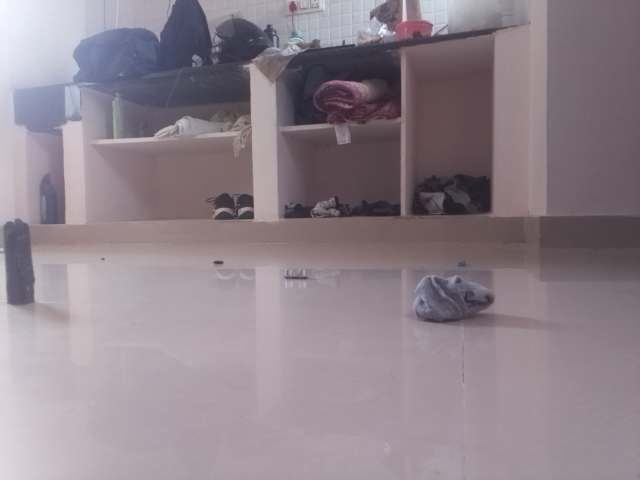
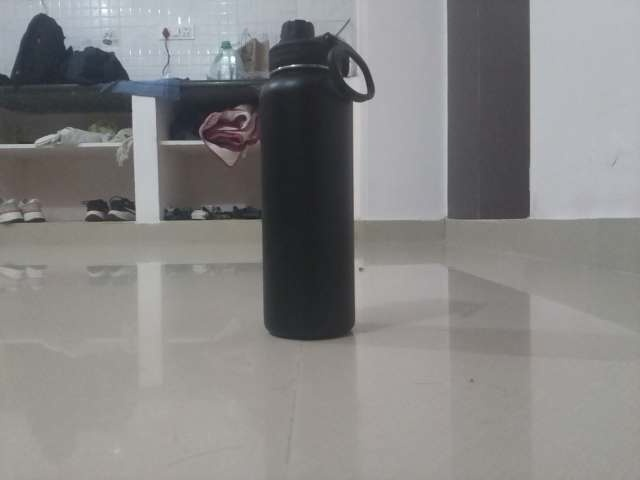
Images Added

diff --git a/camera_calibration.py b/camera_calibration.py
@@ -2,22 +2,22 @@ import cv2
 import numpy as np
 
 #Step - 1
-# cap = cv2.VideoCapture(0)
-# cap.set(cv2.CAP_PROP_FRAME_WIDTH, 640)
-# cap.set(cv2.CAP_PROP_FRAME_HEIGHT, 480)
-# cap.set(cv2.CAP_PROP_FOURCC, cv2.VideoWriter_fourcc('M', 'J', 'P', 'G'))
-# if cap.isOpened():
-#     ret, frame = cap.read() 
-#     if ret:
-#         filename = f"calibration_image.jpg"
-#         frame = cv2.rotate(frame, cv2.ROTATE_180)  
-#         cv2.imwrite(filename, frame)
-#         print(f"✅ Success on /dev/video — saved as {filename}")
-#     else:
-#         print(f"❌ /dev/video opened but no frame.")
-#     cap.release()
-# else:
-#     print(f"❌ Could not open /dev/video")
+cap = cv2.VideoCapture(0)
+cap.set(cv2.CAP_PROP_FRAME_WIDTH, 640)
+cap.set(cv2.CAP_PROP_FRAME_HEIGHT, 480)
+cap.set(cv2.CAP_PROP_FOURCC, cv2.VideoWriter_fourcc('M', 'J', 'P', 'G'))
+if cap.isOpened():
+    ret, frame = cap.read() 
+    if ret:
+        filename = f"multiple_objects_image.jpg"
+        frame = cv2.rotate(frame, cv2.ROTATE_180)  
+        cv2.imwrite(filename, frame)
+        print(f"✅ Success on /dev/video — saved as {filename}")
+    else:
+        print(f"❌ /dev/video opened but no frame.")
+    cap.release()
+else:
+    print(f"❌ Could not open /dev/video")
 
 
 #Step-2
@@ -71,15 +71,15 @@ import numpy as np
 # np.save("homography_matrix.npy", H)
 
 #Step-3 ( Test the matrix)
-clicks =[(296, 278)]
-# Test function
-def pixel_to_world(pixel_x, pixel_y, H):
-    pixel_point = np.array([[[pixel_x, pixel_y]]], dtype=np.float32)
-    world_point = cv2.perspectiveTransform(pixel_point, H)
-    return world_point[0][0]
+# clicks =[(296, 278)]
+# # Test function
+# def pixel_to_world(pixel_x, pixel_y, H):
+#     pixel_point = np.array([[[pixel_x, pixel_y]]], dtype=np.float32)
+#     world_point = cv2.perspectiveTransform(pixel_point, H)
+#     return world_point[0][0]
 
-# Test on known points
-H = np.load("homography_matrix.npy")
-test_pixel = clicks[0]  # First clicked point
-result = pixel_to_world(test_pixel[0], test_pixel[1], H)
-print(f"Pixel {test_pixel} → World {result}")
+# # Test on known points
+# H = np.load("homography_matrix.npy")
+# test_pixel = clicks[0]  # First clicked point
+# result = pixel_to_world(test_pixel[0], test_pixel[1], H)
+# print(f"Pixel {test_pixel} → World {result}")

diff --git a/vision.py b/vision.py
@@ -1,0 +1,53 @@
+import cv2
+import numpy as np
+
+class Obstacle_Detector:
+
+    def __init__(self):
+        self.obstacle_colors = ['black']
+    
+    def detect_all_obstacles(self,image):
+        obstacles = []
+
+        for color in self.obstacle_colors:
+            obstacle = self.detect_color_obstacles(image,color)
+            obstacles.append(obstacle)
+
+        return obstacles
+    
+    def get_color_range(self,color):
+        colors = {
+            'black':[(np.array([0, 0, 0]), np.array([180, 255, 50]))]
+        }
+
+        return colors.get(color,[])
+
+    def get_color_mask(self,image,color):
+        hsv = cv2.cvtColor(image,cv2.BGR2HSV)
+        ranges = cv2.get_color_range(color)
+
+        combined_mask = None
+        for lower,upper in ranges:
+            mask = cv2.inRange(hsv,lower,upper)
+            
+            if(combined_mask==None):
+                combined_mask = mask
+            else:
+                combined_mask = cv2.bitwise_or(combined_mask,mask)
+
+        return combined_mask
+    
+
+
+
+
+
+
+def main(args=None):
+    a = 2
+
+
+
+
+if __name__ == "__main__":
+    main()
